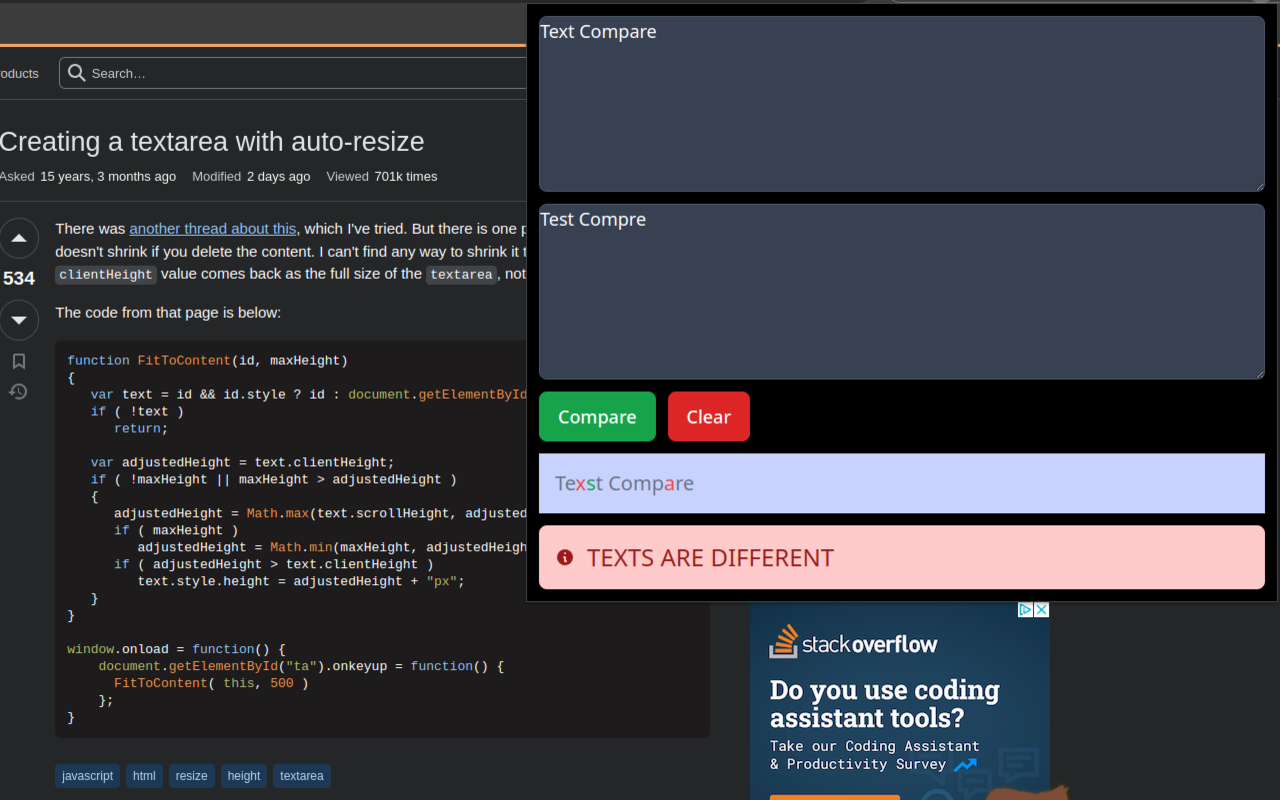
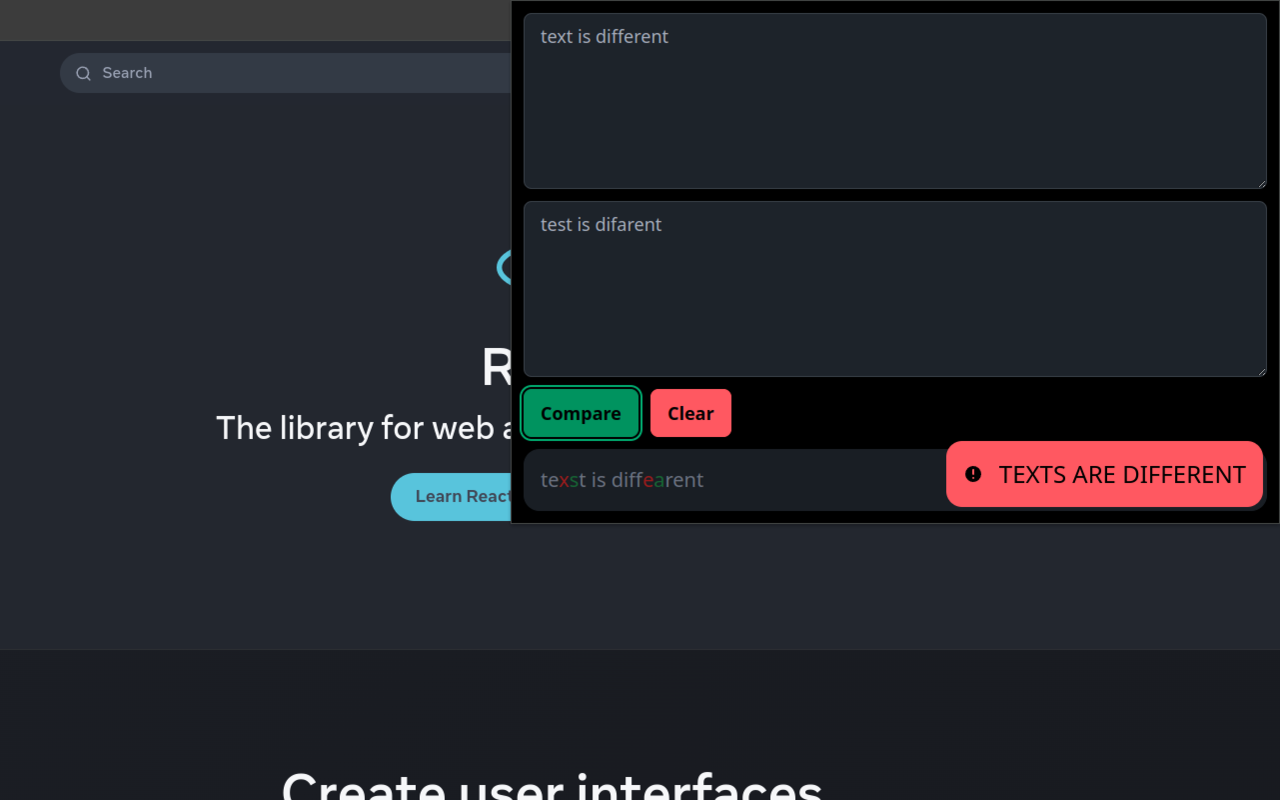
fixes, replaced diff alert with popup toast

diff --git a/src/pages/Popup/Popup.tsx b/src/pages/Popup/Popup.tsx
@@ -1,17 +1,51 @@
 import { Change, diffChars } from "diff";
-import React, { ReactNode, useEffect, useRef, useState } from "react";
+import React, {
+  FocusEvent,
+  FormEvent,
+  ReactNode,
+  RefObject,
+  useCallback,
+  useEffect,
+  useRef,
+} from "react";
 import { useAsync } from "react-async";
 import { Alert, Button, Loading, Textarea } from "react-daisyui";
-import { HiCheckCircle, HiExclamationCircle } from "react-icons/hi";
 import Browser from "webextension-polyfill";
+import { create } from "zustand";
+import ReactDocumentFragment, {
+  statusBarDefText,
+} from "../../containers/ReactDocumentFragment";
+import StatusAlert from "../../containers/StatusAlert";
 import { SavedData } from "../../shared";
 
-const statusBarDefText = "Compare output";
+type IsIdenticalType = boolean | null;
+export type IsIdenticalFunctionType = (isIdentical: IsIdenticalType) => void;
+
+type DiffTextType = ReactNode | string;
+
+let text1Ref: RefObject<HTMLTextAreaElement>;
+let text2Ref: RefObject<HTMLTextAreaElement>;
+
+const useStateCompare = create<{
+  isIdentical: IsIdenticalType;
+  setIsIdentical: IsIdenticalFunctionType;
+  diffText: DiffTextType;
+  setDiffText: (diffText: DiffTextType) => void;
+}>((set) => ({
+  isIdentical: null,
+  setIsIdentical: (isIdentical) =>
+    set(() => ({
+      isIdentical,
+    })),
+  diffText: statusBarDefText,
+  setDiffText: (diffText) =>
+    set(() => ({
+      diffText,
+    })),
+}));
 
 function textAreaAdjust(
-  ev:
-    | React.FormEvent<HTMLTextAreaElement>
-    | React.FocusEvent<HTMLTextAreaElement>,
+  ev: FormEvent<HTMLTextAreaElement> | FocusEvent<HTMLTextAreaElement>,
 ) {
   const elm: HTMLTextAreaElement = ev.currentTarget;
 
@@ -19,15 +53,11 @@ function textAreaAdjust(
   elm.style.height = elm.scrollHeight + "px";
 }
 
-function partRemoved(part: Change) {
-  return part.removed ? "text-red-800" : "text-gray-800";
-}
-
 function saveSettings(
-  event: React.FormEvent<HTMLTextAreaElement>,
-  data: SavedData,
+  event: FormEvent<HTMLTextAreaElement>,
+  data: SavedData | undefined,
 ) {
-  if (data == null) {
+  if (!data) {
     return;
   }
 
@@ -37,83 +67,70 @@ function saveSettings(
   Browser.storage.local.set(data);
 }
 
-function ReactDocumentFragment({ diff }: Readonly<{ diff: Change[] }>) {
-  if (diff.length === 1 && diff[0].value === "") {
-    return statusBarDefText;
+function compare() {
+  if (!text1Ref.current || !text2Ref.current) {
+    return;
   }
 
-  return (
-    <div>
-      {diff.map((part) => {
-        const color = part.added ? "text-green-800" : partRemoved(part);
-        return (
-          <span key={part.value} className={color}>
-            {part.value}
-          </span>
-        );
-      })}
-    </div>
-  );
+  const one: string = text1Ref.current.value.trim(),
+    other: string = text2Ref.current.value.trim();
+
+  const diff: Change[] = diffChars(one, other);
+
+  useStateCompare.setState({
+    diffText: ReactDocumentFragment({ diff }),
+    isIdentical: diff.length === 1,
+  });
 }
 
-async function loadPlayer() {
-  return (await Browser.storage.local.get()) as SavedData;
+function clearFields() {
+  if (!text1Ref.current || !text2Ref.current) {
+    return;
+  }
+
+  Browser.storage.local.set({ text1: "", text2: "" });
+
+  text1Ref.current.value = "";
+  text1Ref.current.style.height = "";
+
+  text2Ref.current.value = "";
+  text2Ref.current.style.height = "";
+
+  useStateCompare.setState({
+    diffText: statusBarDefText,
+    isIdentical: null,
+  });
+}
+
+async function initVariables() {
+  return Browser.storage.local.get() as SavedData;
 }
 
 export default function Popup() {
-  const { data, error, isPending } = useAsync({ promiseFn: loadPlayer });
+  const { data, error, isPending } = useAsync({ promiseFn: initVariables });
+  const { isIdentical, setIsIdentical, diffText } = useStateCompare();
 
-  const [isIdentical, setIsIdentical] = useState<boolean | null>(null);
-  const [diffText, setDiffText] = useState<ReactNode | string>(
-    statusBarDefText,
+  const adjustAndSaveSettings = useCallback(
+    (ev: FormEvent<HTMLTextAreaElement>) => {
+      textAreaAdjust(ev);
+      saveSettings(ev, data);
+    },
+    [data],
   );
 
-  const text1Ref = useRef<HTMLTextAreaElement>(null);
-  const text2Ref = useRef<HTMLTextAreaElement>(null);
+  text1Ref = useRef<HTMLTextAreaElement>(null);
+  text2Ref = useRef<HTMLTextAreaElement>(null);
 
   useEffect(() => {
     window.scrollTo(0, document.body.scrollHeight);
-  }, [isIdentical]);
+  }, [diffText]);
 
   if (isPending) {
     return <Loading />;
   }
 
-  if (error || data == null) {
+  if (error || !data) {
     return `Something went wrong: ${error?.message ?? "savedData is undefined"}`;
-  }
-
-  function compare() {
-    if (text1Ref.current == null || text2Ref.current == null) {
-      return;
-    }
-
-    const one: string = text1Ref.current.value.trim(),
-      other: string = text2Ref.current.value.trim();
-
-    const diff: Change[] = diffChars(one, other);
-
-    setDiffText(ReactDocumentFragment({ diff }));
-    setIsIdentical(diff.length === 1);
-
-    window.scrollTo(0, document.body.scrollHeight);
-  }
-
-  function clearFields() {
-    if (text1Ref.current == null || text2Ref.current == null) {
-      return;
-    }
-
-    Browser.storage.local.set({ text1: "", text2: "" });
-
-    text1Ref.current.value = "";
-    text1Ref.current.style.height = "";
-
-    text2Ref.current.value = "";
-    text2Ref.current.style.height = "";
-
-    setDiffText(statusBarDefText);
-    setIsIdentical(null);
   }
 
   return (
@@ -121,10 +138,7 @@ export default function Popup() {
       <Textarea
         ref={text1Ref}
         onFocus={textAreaAdjust}
-        onInput={(ev) => {
-          saveSettings(ev, data);
-          textAreaAdjust(ev);
-        }}
+        onInput={adjustAndSaveSettings}
         defaultValue={data.text1}
         className="h-44 overflow-y-hidden text-lg"
         placeholder="Original text"
@@ -134,10 +148,7 @@ export default function Popup() {
       <Textarea
         ref={text2Ref}
         onFocus={textAreaAdjust}
-        onInput={(ev) => {
-          saveSettings(ev, data);
-          textAreaAdjust(ev);
-        }}
+        onInput={adjustAndSaveSettings}
         defaultValue={data.text2}
         className="h-44 overflow-y-hidden text-lg"
         placeholder="Text to compare"
@@ -153,25 +164,15 @@ export default function Popup() {
         </Button>
       </div>
 
-      <Alert status="info">
+      <Alert>
         <p className="text-xl">{diffText}</p>
       </Alert>
 
       {isIdentical != null && (
-        <Alert
-          icon={
-            isIdentical ? (
-              <HiCheckCircle className="size-5" />
-            ) : (
-              <HiExclamationCircle className="size-5" />
-            )
-          }
-          status={isIdentical ? "success" : "error"}
-        >
-          <span id="statusBar" className="text-2xl">
-            TEXTS ARE {isIdentical ? "IDENTICAL" : "DIFFERENT"}
-          </span>
-        </Alert>
+        <StatusAlert
+          isIdentical={isIdentical}
+          setIsIdentical={setIsIdentical}
+        />
       )}
     </div>
   );

diff --git a/src/containers/StatusAlert/index.tsx b/src/containers/StatusAlert/index.tsx
@@ -1,0 +1,43 @@
+import React, { useEffect } from "react";
+import { Alert, Toast } from "react-daisyui";
+import { HiCheckCircle, HiExclamationCircle } from "react-icons/hi";
+import { IsIdenticalFunctionType } from "../../pages/Popup/Popup";
+
+type Props = { isIdentical: boolean; setIsIdentical: IsIdenticalFunctionType };
+
+export default function StatusAlert({
+  isIdentical,
+  setIsIdentical,
+}: Readonly<Props>) {
+  useEffect(() => {
+    const timeout = setTimeout(() => {
+      setIsIdentical(null);
+    }, 2000);
+
+    // this will clear Timeout
+    // when component unmount like in willComponentUnmount
+    // and show will not change to true
+    return () => {
+      clearTimeout(timeout);
+    };
+  }, [setIsIdentical]);
+
+  return (
+    <Toast className="animate-fade-down">
+      <Alert
+        icon={
+          isIdentical ? (
+            <HiCheckCircle className="size-5" />
+          ) : (
+            <HiExclamationCircle className="size-5" />
+          )
+        }
+        status={isIdentical ? "success" : "error"}
+      >
+        <span id="statusBar" className="text-2xl">
+          TEXTS ARE {isIdentical ? "IDENTICAL" : "DIFFERENT"}
+        </span>
+      </Alert>
+    </Toast>
+  );
+}

diff --git a/src/containers/ReactDocumentFragment/index.tsx b/src/containers/ReactDocumentFragment/index.tsx
@@ -1,0 +1,29 @@
+import { Change } from "diff";
+import React from "react";
+
+export const statusBarDefText = "Compare output";
+
+function partRemoved(part: Change) {
+  return part.removed ? "text-red-800" : "text-gray-500";
+}
+
+export default function ReactDocumentFragment({
+  diff,
+}: Readonly<{ diff: Change[] }>) {
+  if (diff.length === 1 && diff[0].value === "") {
+    return statusBarDefText;
+  }
+
+  return (
+    <div>
+      {diff.map((part) => {
+        const color = part.added ? "text-green-800" : partRemoved(part);
+        return (
+          <span key={part.value} className={color}>
+            {part.value}
+          </span>
+        );
+      })}
+    </div>
+  );
+}

diff --git a/tailwind.config.ts b/tailwind.config.ts
@@ -1,5 +1,6 @@
 import daisyui from "daisyui";
 import { Config } from "tailwindcss";
+import tailwindcssAnimated from "tailwindcss-animated";
 
 const tailwind: Config = {
   content: [
@@ -8,7 +9,7 @@ const tailwind: Config = {
     "node_modules/react-daisyui/dist/**/*.js",
   ],
   darkMode: "class",
-  plugins: [daisyui],
+  plugins: [daisyui, tailwindcssAnimated],
 };
 
 export default tailwind;

diff --git a/src/pages/Popup/index.tsx b/src/pages/Popup/index.tsx
@@ -6,5 +6,9 @@ import "../../assets/css/tailwind.scss";
 import "./index.scss";
 
 const container = document.getElementById("app-container");
-const root = createRoot(container!);
+if (!container) {
+  throw new Error("Critical Error - root element was not found");
+}
+
+const root = createRoot(container);
 root.render(<Popup />);

diff --git a/src/pages/Background/index.ts b/src/pages/Background/index.ts
@@ -15,7 +15,7 @@ async function menusOnClick(info: Menus.OnClickData) {
   }
 
   const saveData: SavedData = {};
-  saveData["text2"] = info.selectionText!;
+  saveData["text2"] = info.selectionText;
 
   Browser.storage.local.set(saveData);
 }

diff --git a/src/pages/Popup/index.scss b/src/pages/Popup/index.scss
@@ -1,6 +1,7 @@
 body {
-  width: 50rem;
+  width: 48rem;
   height: auto;
   background-color: black;
   padding: 0.75rem;
+  overflow: hidden;
 }

diff --git a/README.md b/README.md
@@ -17,7 +17,7 @@ Text Compare is modern, open-source **Chrome** / **Firefox** extension. It uses 
 
 ## Features
 
-It can compare two texts in popup widow without entering a new site, also you can select any text on website and compare it thought the browser context menu, yes that's really that simple...
+It can compare two texts in popup window without the external site need, also you can select any text on website and compare it thought the browser context menu, yes that's really that simple!
 
 ![Popup image](images/popup.png "Popup image")
 
